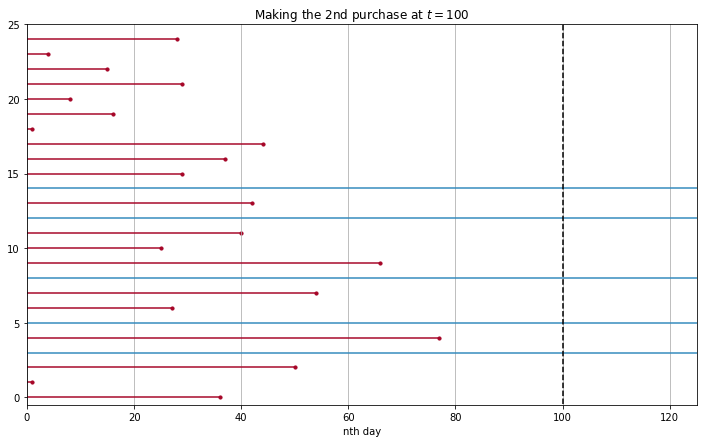
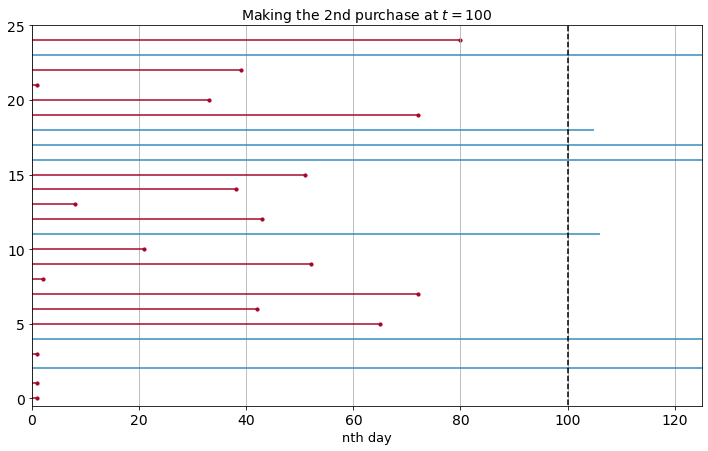
modify plot font size

Changed region(s): [[0.0, 0.0, 1.0, 0.9977]]

diff --git a/_posts/2021-10-23-survival-analysis.md b/_posts/2021-10-23-survival-analysis.md
@@ -30,21 +30,23 @@ For our current context, we define
 - "death" as the event that a customer made his/her second purchase
 - "lifespan" as the time difference between "birth" and "death" (or how long should we wait for a customer to make his/her second purchase).
 
+We are using <a href="https://archive.ics.uci.edu/ml/datasets/online+retail">this</a> online retail dataset that contains real transactions of gift products business in 2010 and 2011.
+
 ## Lifetime Plot 
 
 Let's observe the lifetimes of some customers.
 
 <p style="text-align:center"><img src="{{ site.baseurl }}/assets/images/2021-10-23-survival-analysis/lifespan.png" alt="lifespan" width="650"/></p>
 
-The plot above simply shows the time difference between someone's first and second purchase. With the dotted line at $$t = 100$$, it means we're observing their "lifespan" until the 100th day after the first purchase. 
+The plot above simply shows the time difference between someone's first and second purchase. The dotted line at $$t = 100$$ means we're observing their "lifespan" until the 100th day after the first purchase. Like, how often we see a customer who made his/her second purchase in 100 days after his/her first one.
 
-Red line means their second purchases are observed before or at the 100th day after the first purchase. Blue line means their second purchases haven't observed yet until the 100th day after the first purchase. Consequently, their second purchase could be happening at the 101st day or 105th day after the first purchase, or *not happening at all*. 
+Red line means their second purchases are observed at the 100th day after the first purchase or earlier. Blue line means their second purchases haven't observed yet in 100 days after the first purchase, implying their second purchase could be happening at the 101st day or 105th day after the first purchase, or *not happening at all*. 
 
-See also that some blue lines can be not too long, but some can be very long beyond the right border of the plot (the upper limit of the x-axis is adjusted on purpose to simplify the plot). We're calling these blue lifetimes as *right-censored*. 
+Note that some blue lines can be not too long, but some can be very long beyond the right border of the plot (the upper limit of the x-axis is adjusted on purpose to simplify the plot). We're calling these blue lifetimes as *right-censored*. 
 
-Why the right-censored data are matter to notice? If we'd like to take the average "lifespan" of our customers when we're observing them at time $$t$$, the average can be underestimated since some customers' second purchase aren't observed yet (i.e. we don't know yet whether they will make second purchase beyond at time $$t$$). In other words, having observed their actual lifetimes beyond time $$t$$ can't be useful in this case.
+Why are the right-censored data matter to notice? If we'd like to take the average "lifespan" of our customers when we're observing them at time $$t$$, the average can be underestimated by the lifespan of customers whose second purchase aren't observed yet. We don't know yet whether they will make second purchase beyond at time $$t$$. In other words, having observed their actual lifetimes beyond time $$t$$ can't be useful in this case.
 
-In survival analysis, we want to get a better general estimation of waiting time between a customer's first and second purchase.
+In survival analysis, we want to get a better estimation of waiting time between a customer's first and second purchase.
 
 ## Survival Function
 
@@ -91,11 +93,12 @@ Here's the plot based on our estimated survival function.
 
 The percentage on y-axis can be seen as the probability of someone not making his/her second purchase yet until time $$t$$. 
 
-Some cool insights:
-- Around 80% of customers haven't made their second purchase until the 22nd day after their purchase. 
-- Around half of customers haven't made their second purchase until the 99th day after their purchase, which is around three months. 
+What do we get here?
+- Around 80% of customers haven't made their second purchase until the 26th day after their first purchase. 
+- Around half of customers haven't made their second purchase until the 99th day after their first purchase, which is around three months.
+- Around 67% of customers have made their seceond purchase up to 180th day or six months after their first purchase. 
 
-Depending on what kind of business our data are based on, 22 days or 99 days can be relatively short or long (e.g. for corporate retail business, 22 days could be considered as short waiting time, but for consumer retail, it could be too long), they can be our estimation on when is the ideal time to re-engage the customers in order to increase their chance to purchase again.
+Depending on what kind of business our data are based on, 27 days or 99 days can be relatively short or long (e.g. for corporate retail business, 27 days could be considered as short waiting time, but for consumer retail, it could be too long), they can be our estimation on when is the ideal time to re-engage the customers in order to increase their chance to purchase again.
 
 ## Hazard Function
 
@@ -123,10 +126,14 @@ So here is our cumulative hazard function plot.
 
 <p style="text-align:center"><img src="{{ site.baseurl }}/assets/images/2021-10-23-survival-analysis/cumulative-hazard-function.png" alt="cumulative-hazard-function" width="625"/></p>
 
-It seems the interpretation would not be too straightforward since now the y-label shows cumulative probabilities of second purchase at $$t$$ instead of just probabilities. But at least there are some takeaways. The cumulative hazard increase rate looks quite consistent along the timeline.
+It seems the interpretation would not be too straightforward since now the y-label shows cumulative probabilities of second purchase at $$t$$ instead of just probabilities. But at least there are some takeaways. The cumulative hazard increase rate looks quite consistent along the timeline. No interesting sudden rate change at any point $$t$$, except in the beginning and the end. Other cumulative hazard functions can have sudden changes in some certain period.
 
 What if we just want to observe the probability? Well, we can now plot the hazard function.
 
 <p style="text-align:center"><img src="{{ site.baseurl }}/assets/images/2021-10-23-survival-analysis/hazard-function.png" alt="hazard-function" width="625"/></p>
 
-Cosmetically, the line is more jagged than the previous one. But at least interpreting one number can be more obvious. 
+Note that since we're not deriving the hazard function from our survival function, the hazard function above is *estimated* from the change rates happened in the cumulative hazard function. Appearantly, the line is more jagged. We see that the probability of second purchase is quite flat along the timeline, but there are notable spikes in the beginning and the end of the timeline, just like we've seen on the cumulative hazard plot. While the y-label is more obvious to interpret than the cumulative hazard function, it seems that we won't need to observe hazard rate at a certain $$t$$ that often. Thus, cumulative hazard function is said to be more recommended.
+
+Based on some findings above, looks like we need to give customers more time to deciding on making second purchase. Since our data are based on gift product retail transactions, judging from the product type seems reasonable to expect a customer to not having another purchase at a very short time. Though hopefully we see more interesting survival and hazard function in another problem.
+
+Should you find survival analysis is exciting, have more sneak peek in this <a href="https://www.coursera.org/learn/ai-for-medical-prognosis">course</a>.
